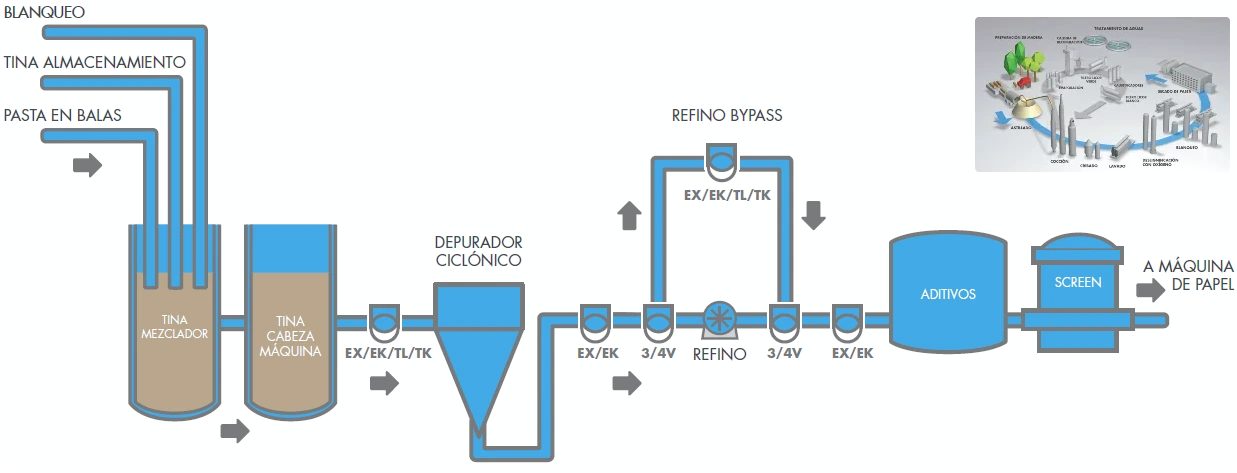
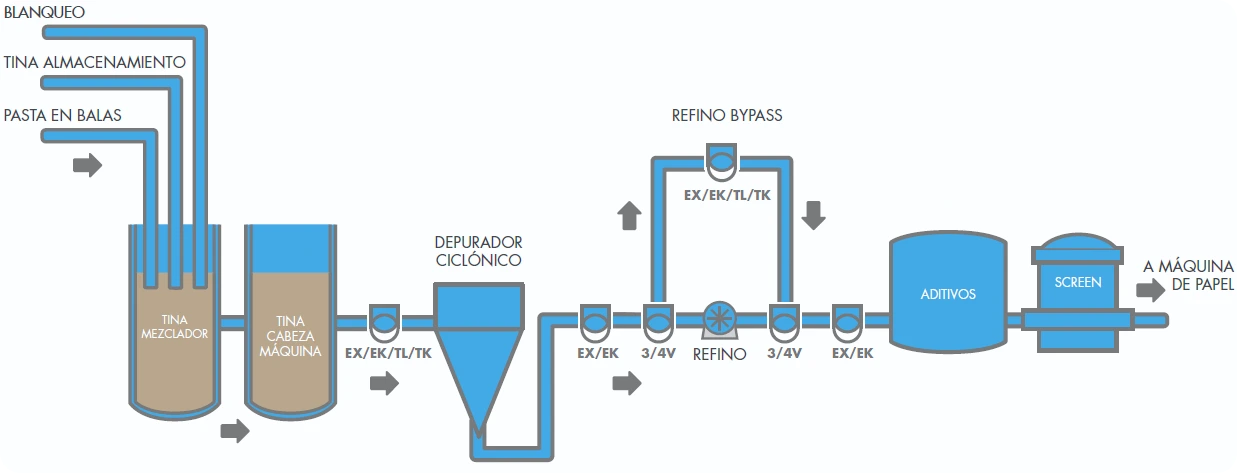
mini diagram eliminated from diagrams

Changed region(s): [[0.768, 0.0296, 1.0, 0.3552]]

diff --git a/app/frontend.py b/app/frontend.py
@@ -65,8 +65,8 @@ def load_images():
     images['recycled_paper_diagram'] = img_to_base64(Image.open(IMG_PATH / 'segments' / 'recycled_paper_diagram.webp'))
     #images['recycled_paper_diagram_light'] = img_to_base64(Image.open(IMG_PATH / 'segments' / 'recycled_paper_diagram_light.webp'))
     for name in ['pulper', 'depuracion', 'destintado', 'espesado', 'blanqueo', 'refinado']:
-        images[name + '_dark'] = img_to_base64(Image.open(IMG_PATH / 'recycled_paper' / (name + '_dark.jpg')))
-        images[name + '_light'] = img_to_base64(Image.open(IMG_PATH / 'recycled_paper' / (name + '_light.jpg')))
+        images[name + '_dark'] = img_to_base64(Image.open(IMG_PATH / 'recycled_paper' / (name + '_dark.webp')))
+        images[name + '_light'] = img_to_base64(Image.open(IMG_PATH / 'recycled_paper' / (name + '_light.webp')))
     
     images['virgin_paper_diagram'] = img_to_base64(Image.open(IMG_PATH / 'segments' / 'virgin_paper_diagram.webp'))
     #images['virgin_paper_diagram_light'] = img_to_base64(Image.open(IMG_PATH / 'segments' / 'virgin_paper_diagram_light.webp'))
